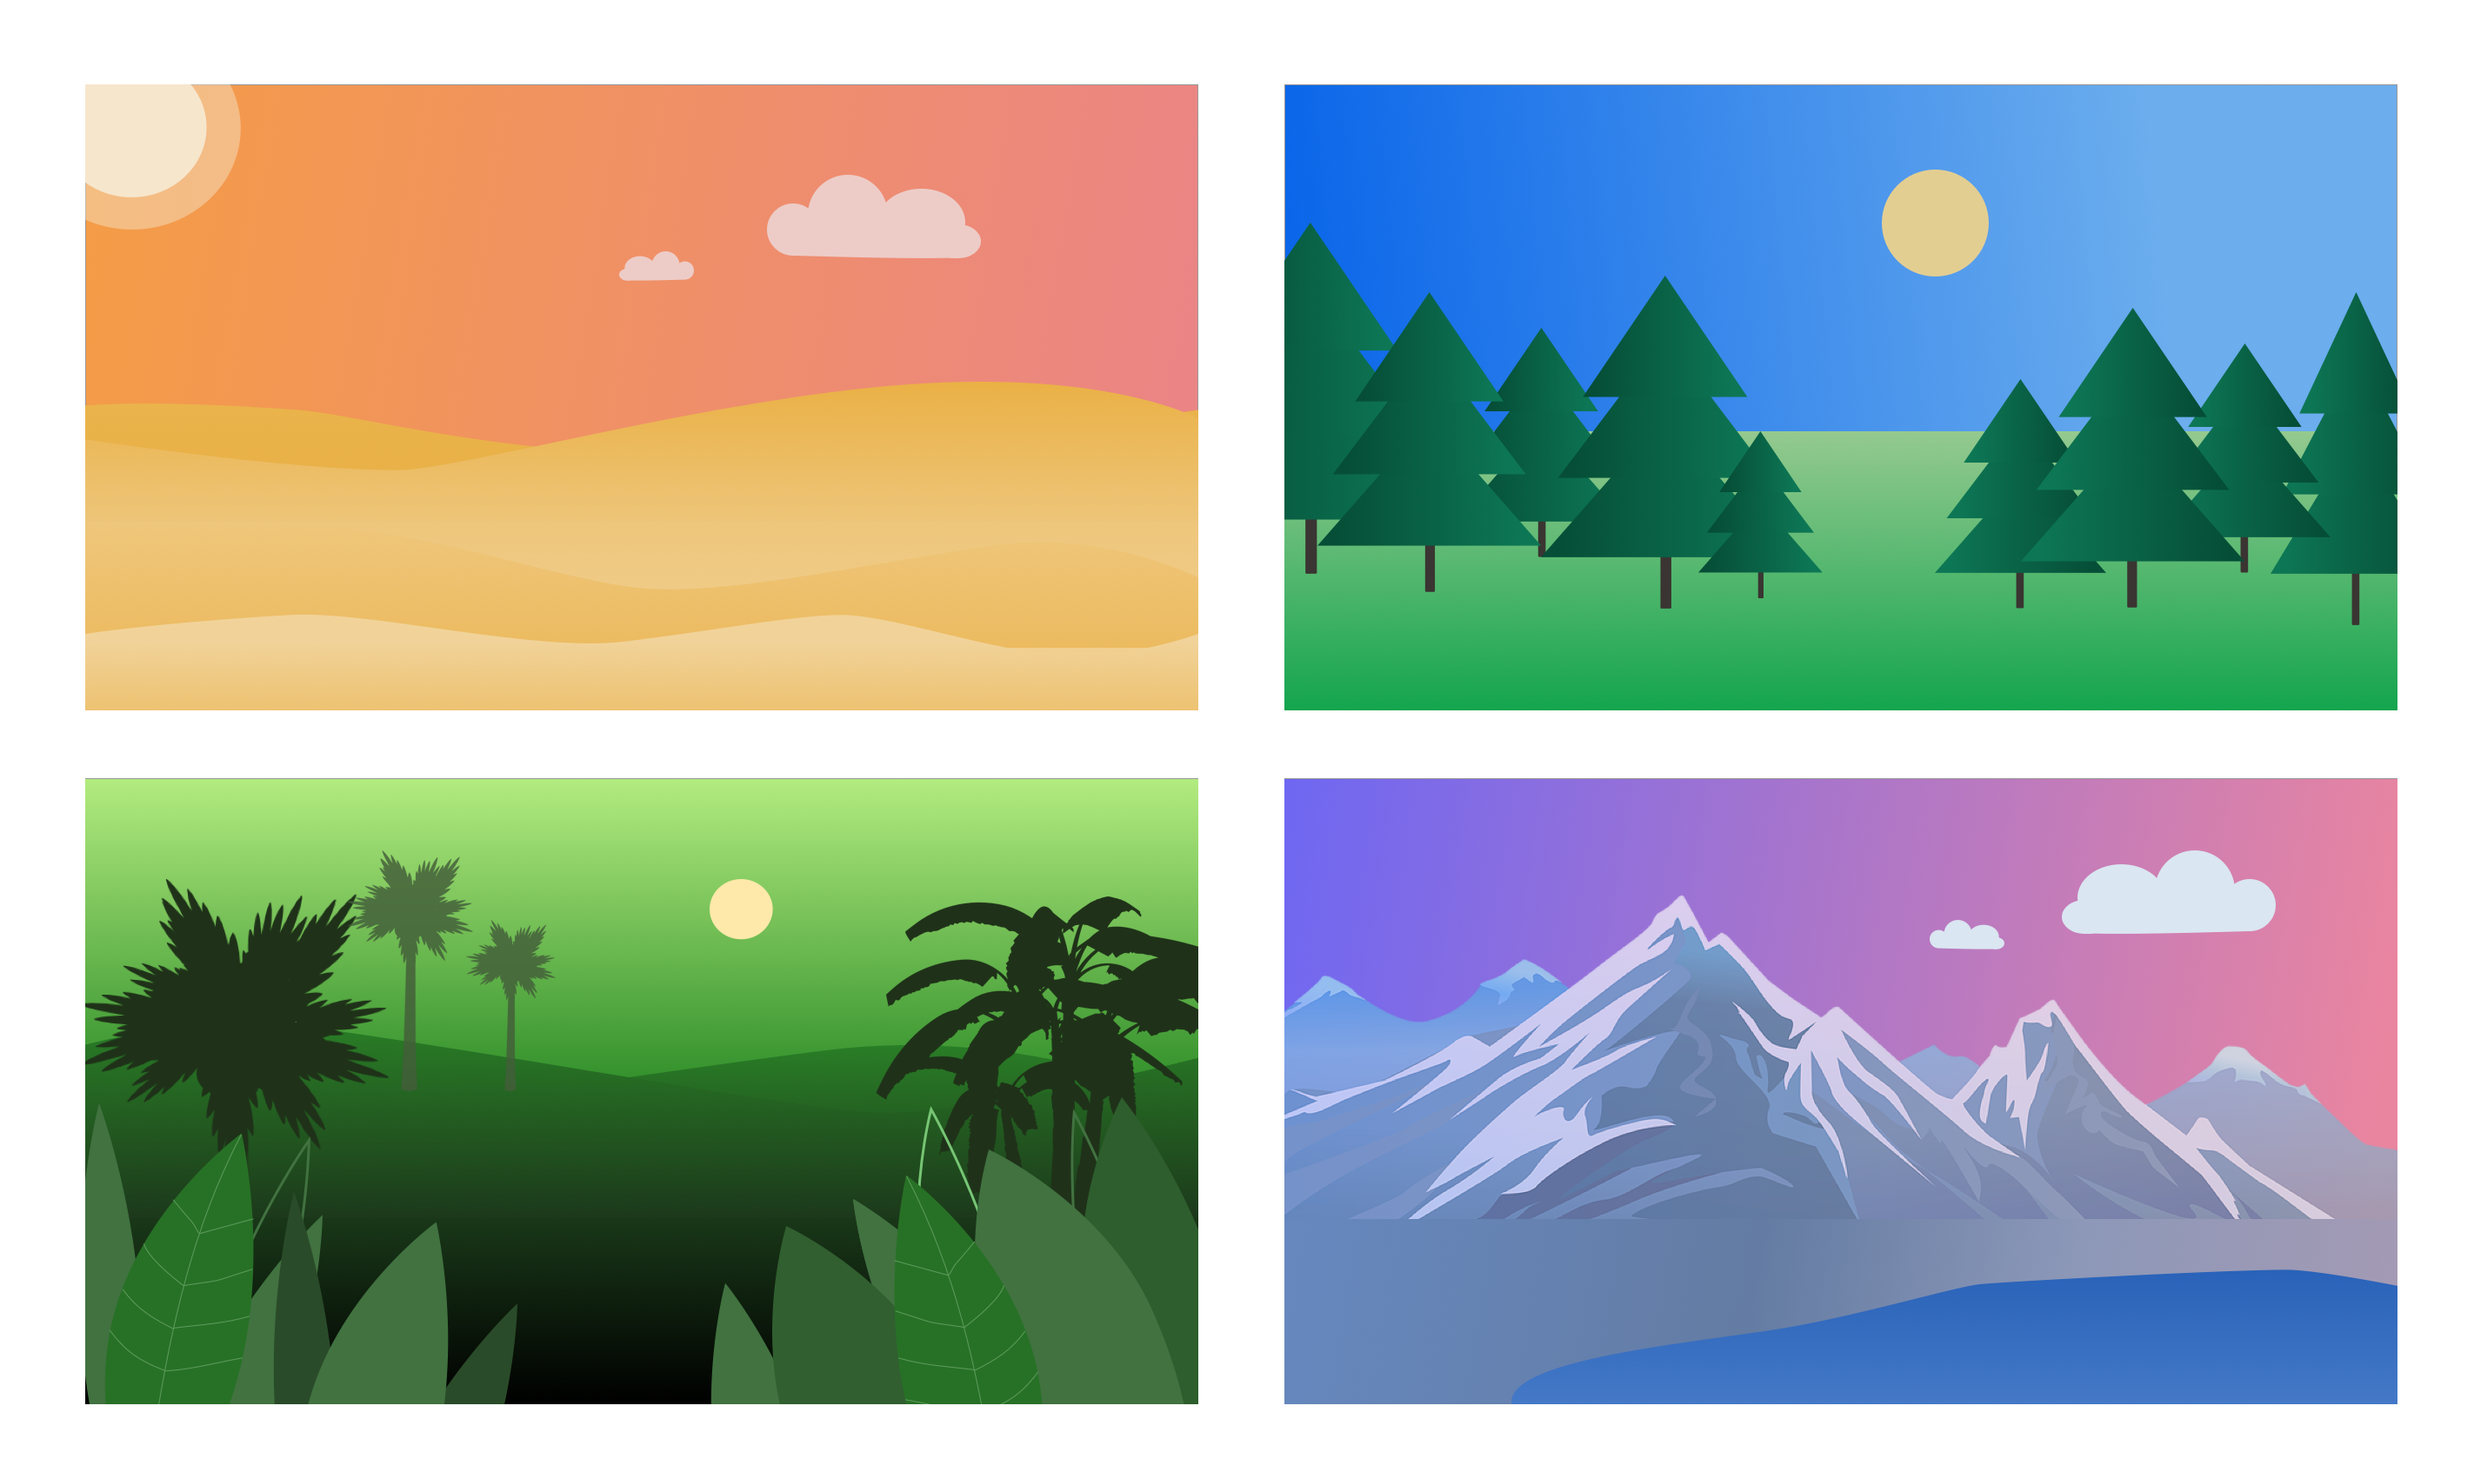
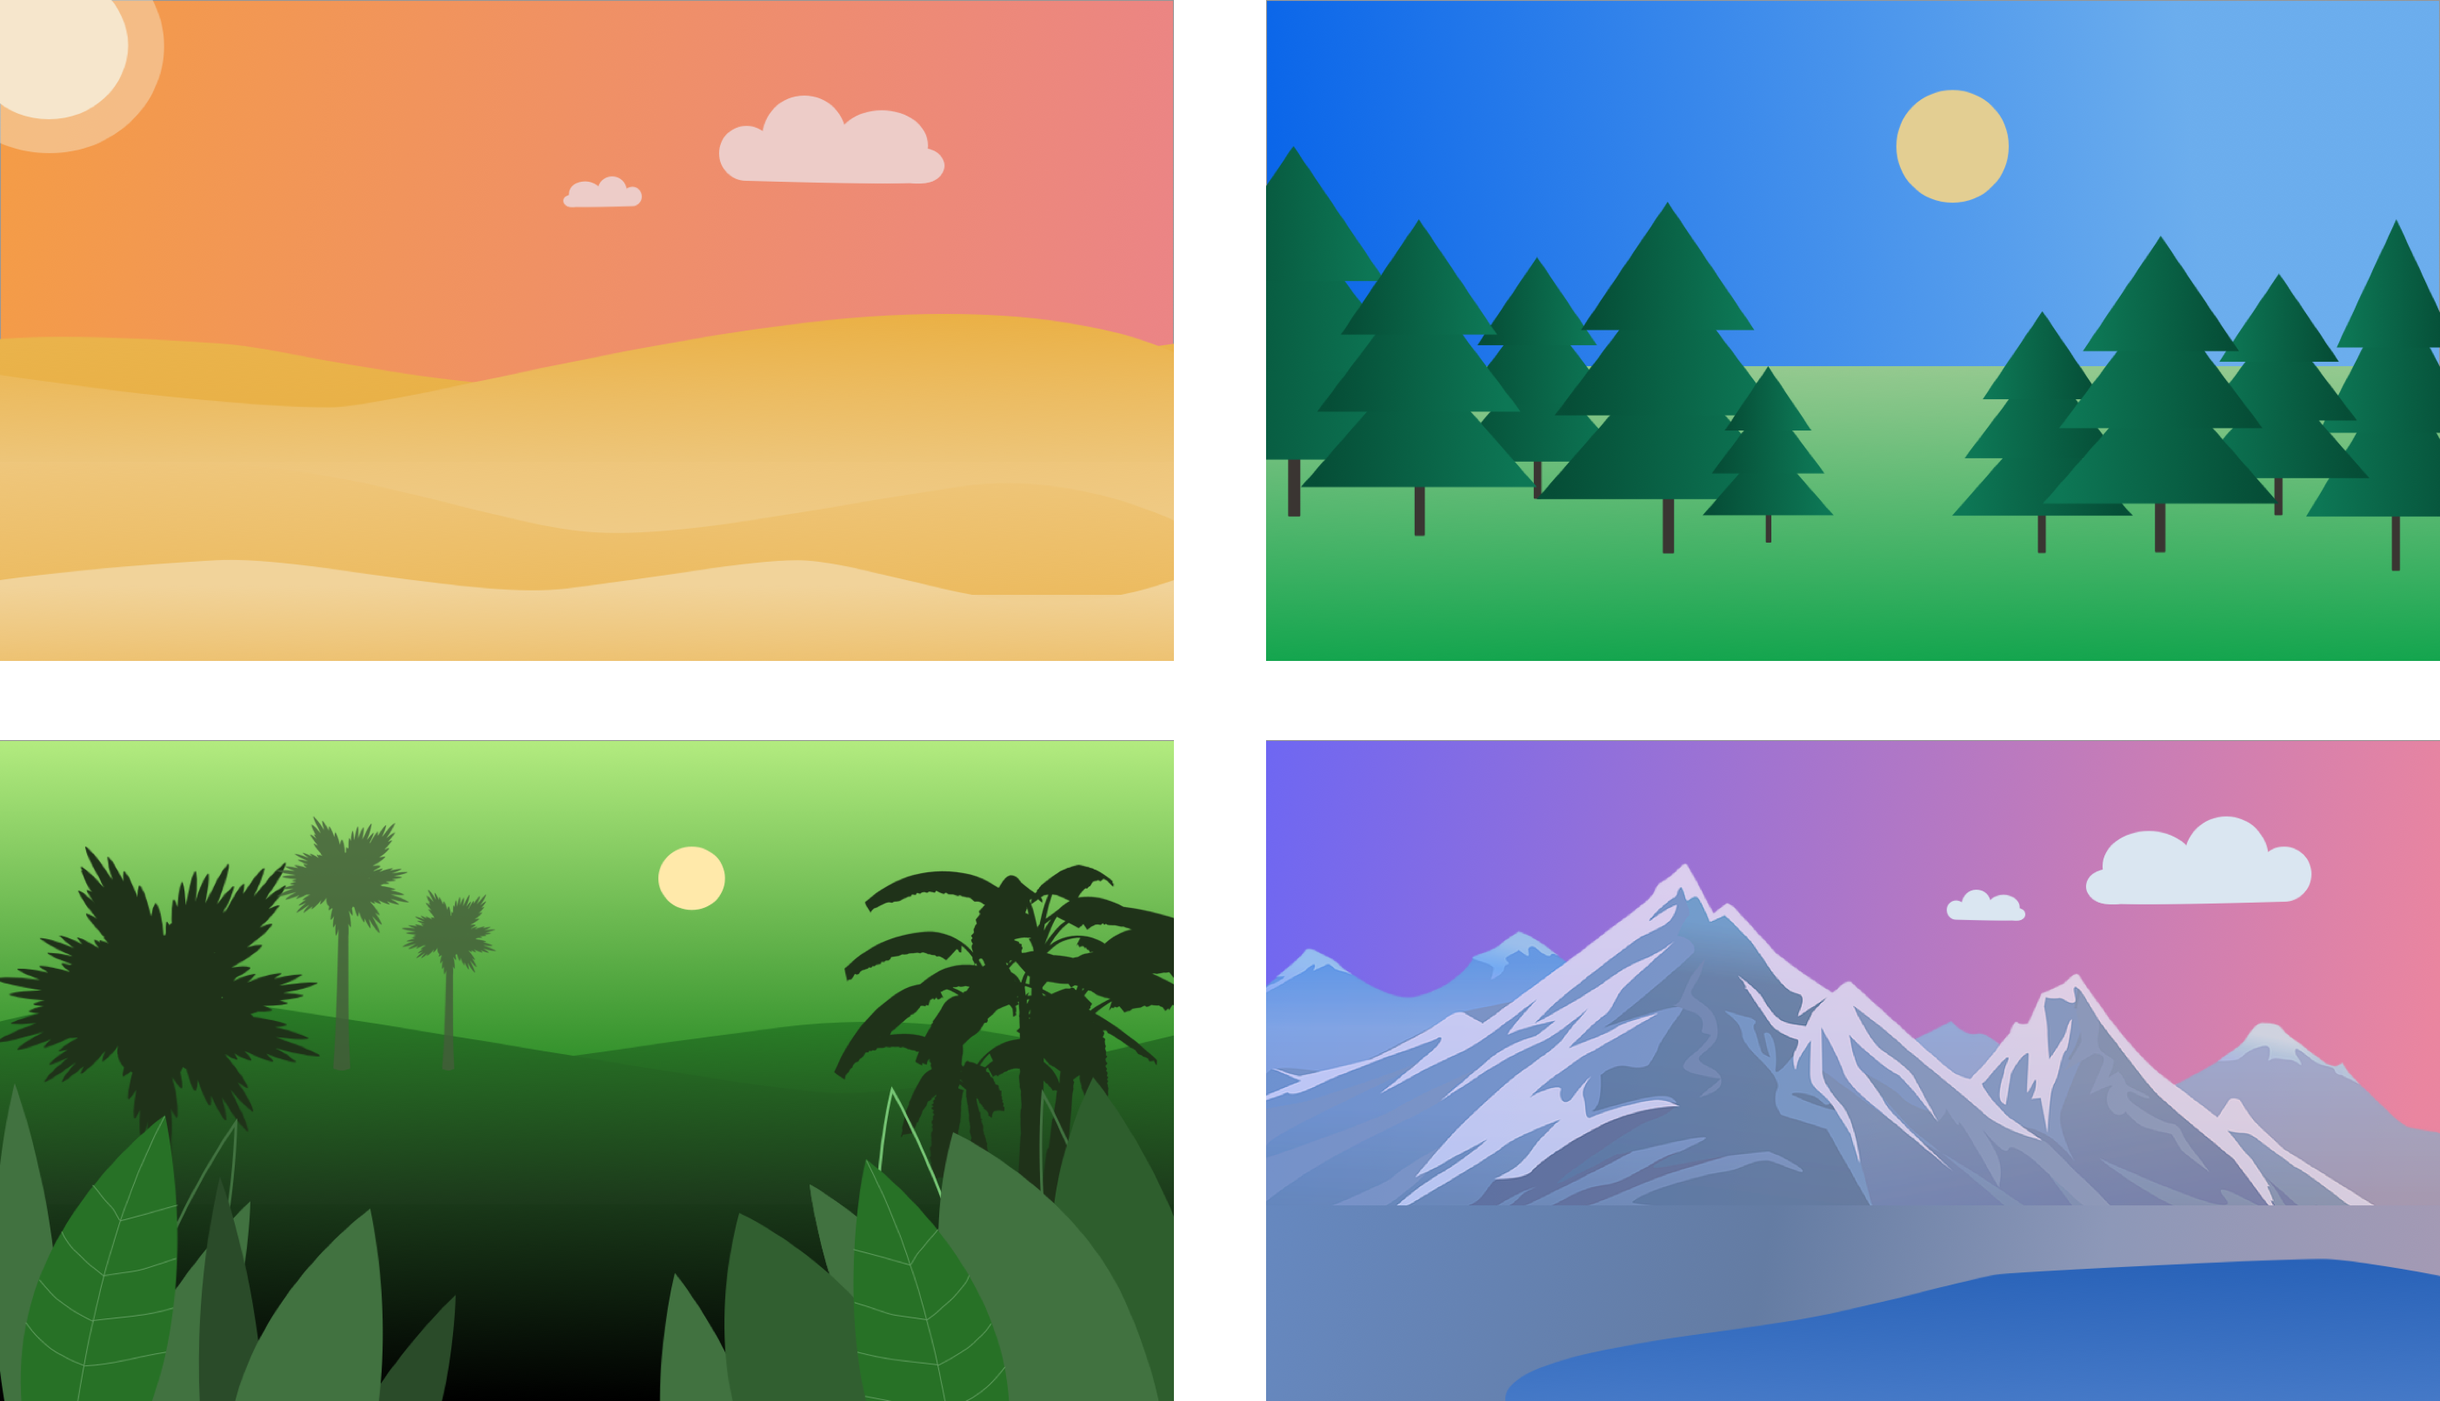
updating res novae imgs

diff --git a/content/resnovae.html b/content/resnovae.html
@@ -90,7 +90,7 @@
               </section>
               <section>
                   <div>
-                      <img class="feature" data-src="../assets/resnovae/environments.png" />
+                      <img class="feature" style="box-shadow: none;" data-src="../assets/resnovae/environments.png" />
                       <figcaption class="caption">4 environment selections: Coastal desert, temperate forest, tropical rainforest, tundra</figcaption>
                   </div>
                   <br/>
@@ -131,7 +131,7 @@
               </section>
               <section>
                   <div>
-                      <img class="feature" data-src="../assets/resnovae/variations.png" />
+                      <img class="feature" style="box-shadow: none;" data-src="../assets/resnovae/variations.png" />
                       <figcaption class="caption">Simple species design variations</figcaption>
                   </div>
                   <br/>
